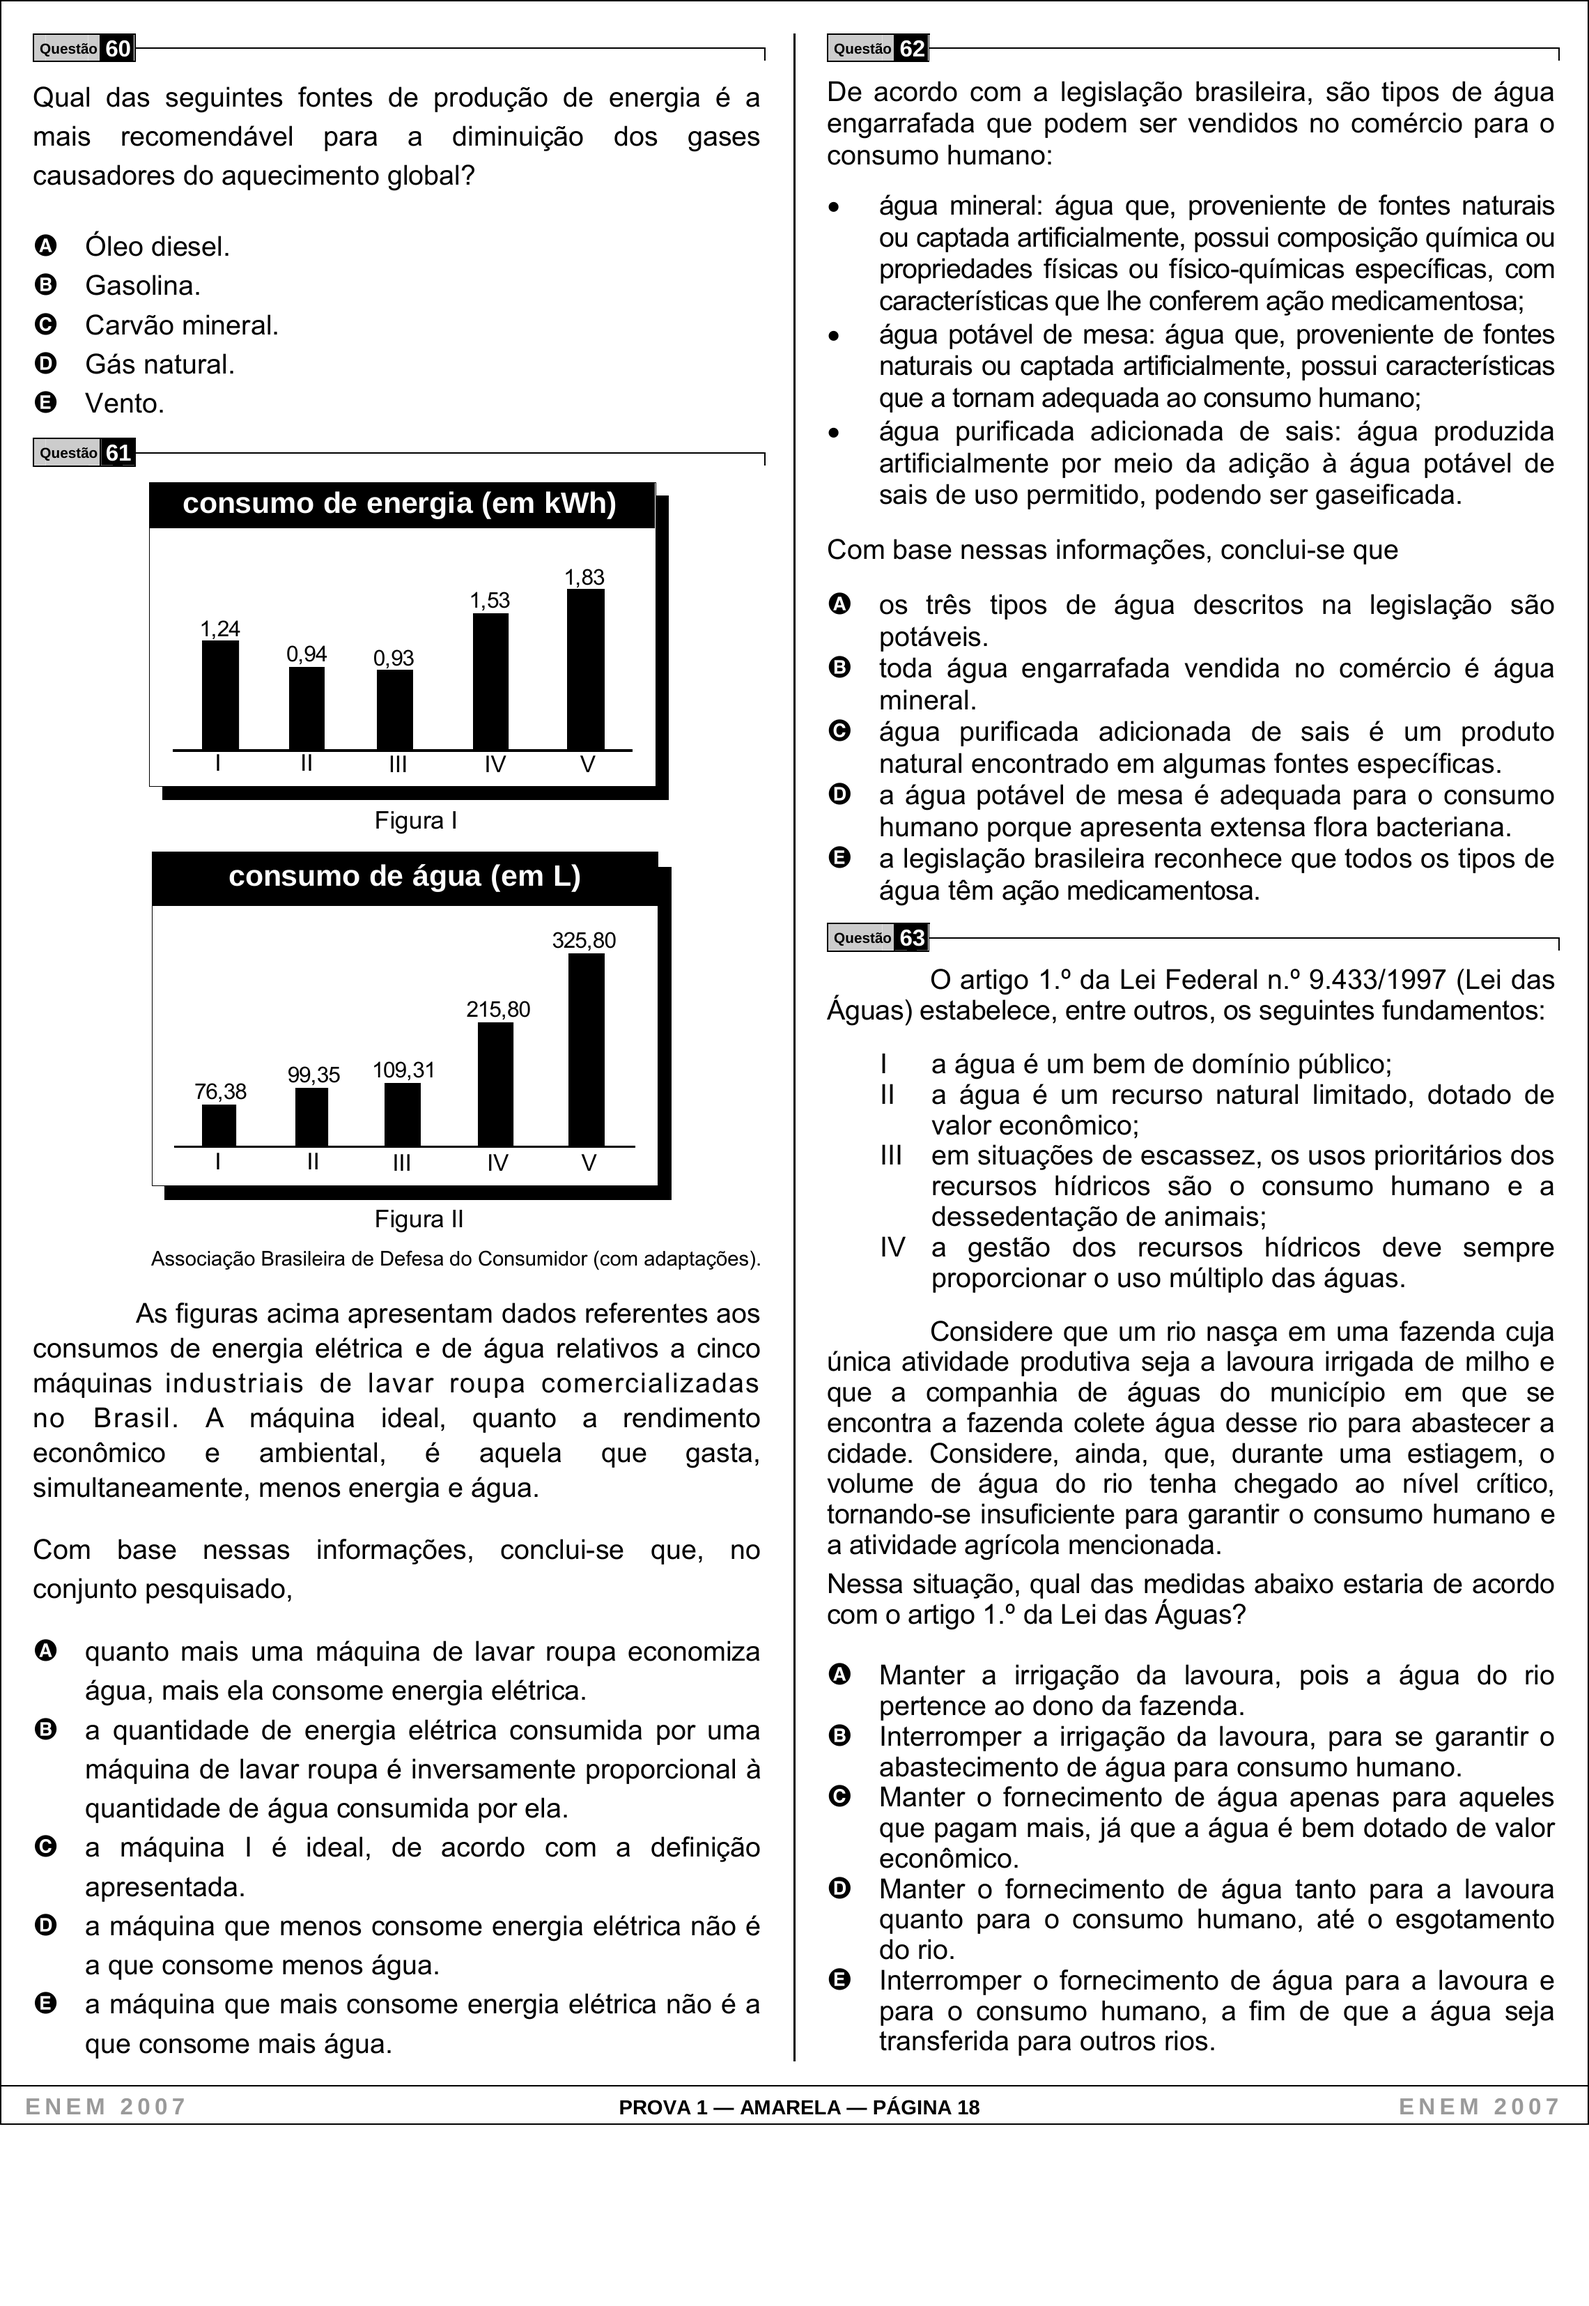
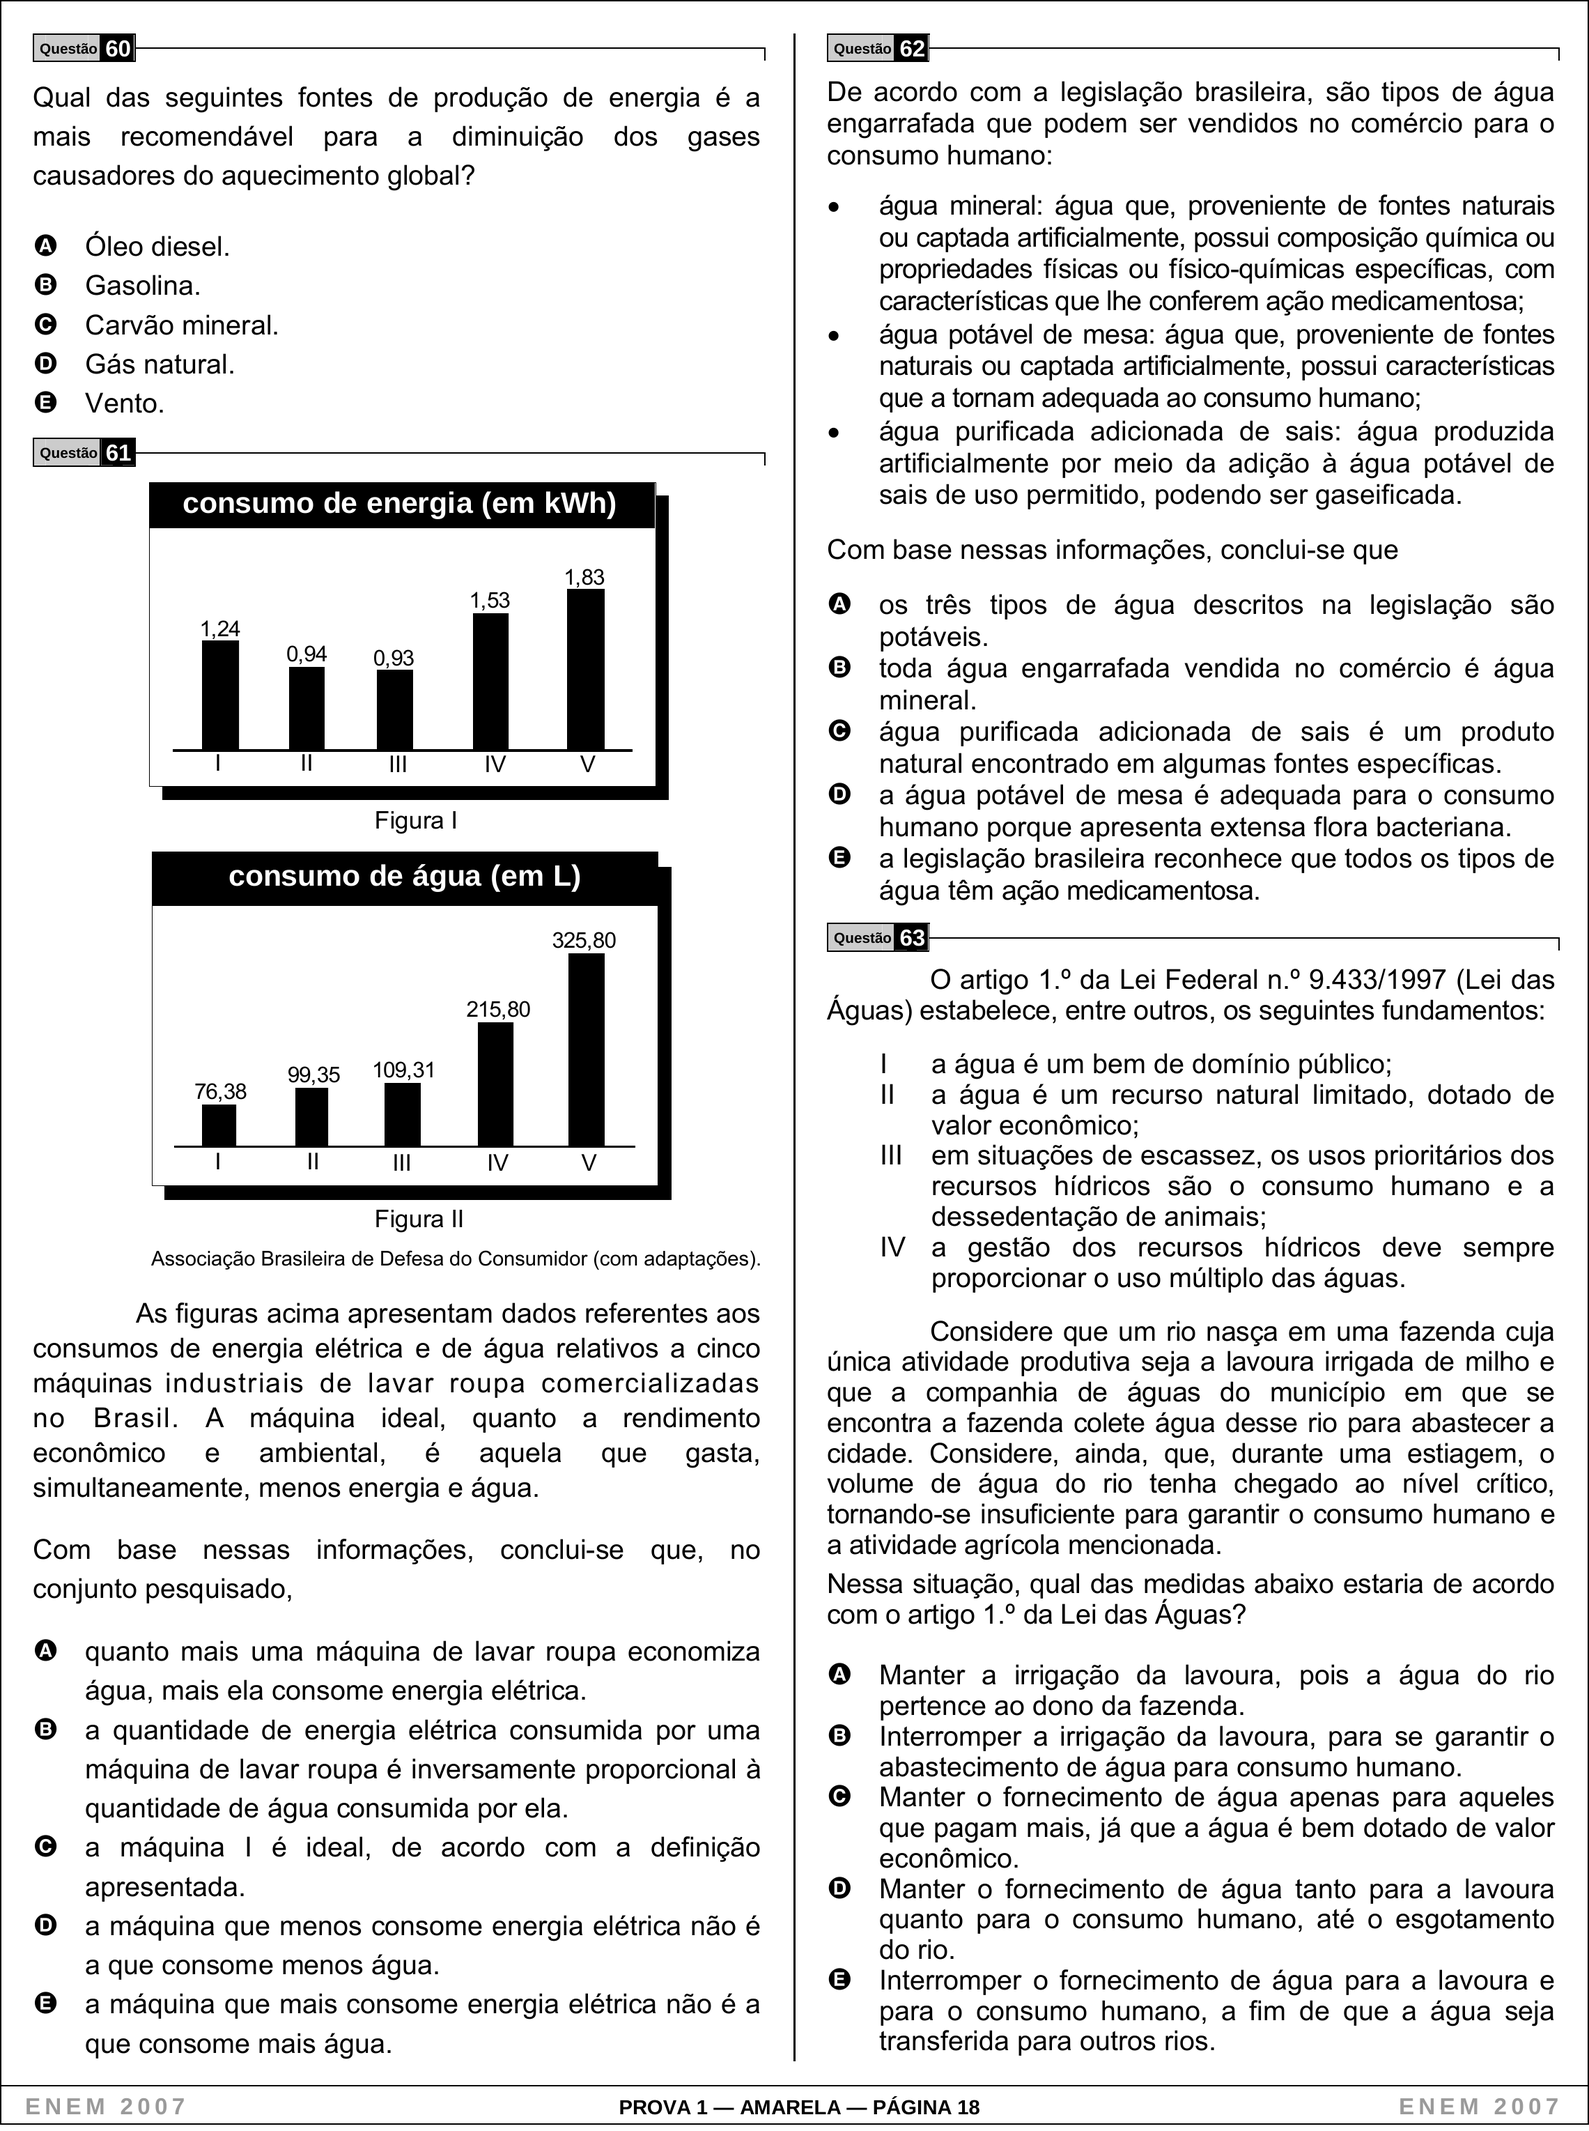
divou

Changed region(s): [[0.0, 0.0, 1.0, 1.0]]

diff --git a/2Passo-RemoverBordas/remover-bordas.py b/2Passo-RemoverBordas/remover-bordas.py
@@ -23,7 +23,7 @@ for nome_arquivo in os.listdir(pasta_imagens):
 
         largura, altura = imagem.size
 
-        caixa_corte = (100, 100, largura - 100, altura - 100)
+        caixa_corte = (100, 100, largura - 100, altura - 351)
         imagem_cortada = imagem.crop(caixa_corte)
 
         caminho_saida = os.path.join(pasta_saida, nome_arquivo)
